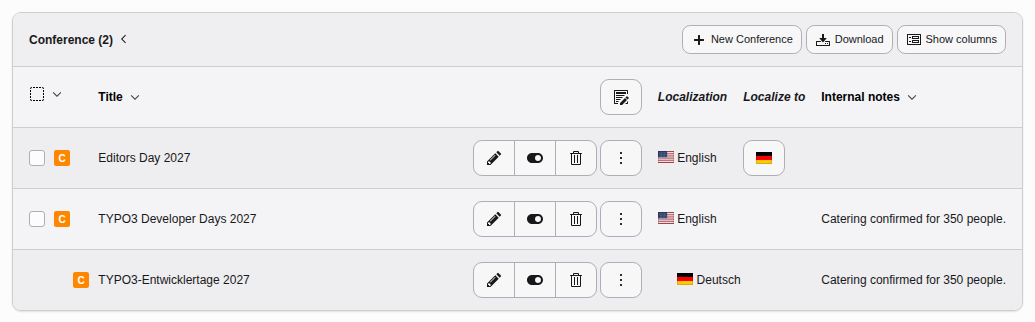
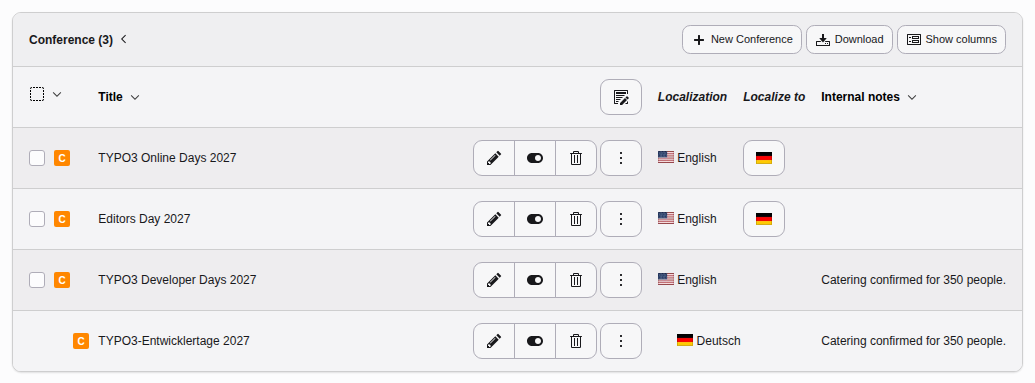
[TASK] Show a type from a related record with the conference extension
The example of a type from a related record used a table of the
styleguide extension. Its screenshot was the last automatic screenshot,
and its snippets came from the generator for the styleguide.

A partnership of the conference extension now takes its type from the
format of the partner conference. An online partner conference shares
its live stream instead of a discount. A third conference, which is
online, shows both types side by side in the screenshot.

Releases: main, 14.3
Assisted-by: Claude Opus 5.5 <noreply@anthropic.com>

diff --git a/Build/Screenshots/create-records.php b/Build/Screenshots/create-records.php
@@ -211,6 +211,7 @@ $data['tx_myextension_hotel'] = [
 ];
 $data['tx_myextension_partnership'] = [
     'NEWpartnership' => ['pid' => $pid, 'partner' => 'NEWconfeditors', 'discount' => 20],
+    'NEWpartnershiponline' => ['pid' => $pid, 'partner' => 'NEWconfonline', 'shared_livestream' => 1],
 ];
 $data['tx_myextension_comment'] = [
     'NEWcomment' => [
@@ -243,7 +244,7 @@ $data['tx_myextension_conference'] = [
         'comments' => 'NEWcomment', 'logo' => 'NEWimglogo',
         'registrations' => 'NEWregchris,NEWregsam', 'waiting_list' => 'NEWregrobin',
         'hotels' => 'NEWhotelfair,NEWhotelriver', 'content_elements' => 'NEWgettingthere',
-        'partners' => 'NEWpartnership',
+        'partners' => 'NEWpartnership,NEWpartnershiponline',
     ],
     'NEWconfeditors' => [
         'pid' => $pid, 'title' => 'Editors Day 2027',
@@ -251,6 +252,12 @@ $data['tx_myextension_conference'] = [
         'event_format' => 'onsite',
         'seats' => 120, 'contact_email' => 'editors@example.org', 'color' => '#2f99a4',
         'speakers' => 'NEWspada',
+    ],
+    'NEWconfonline' => [
+        'pid' => $pid, 'title' => 'TYPO3 Online Days 2027',
+        'conference_date' => strtotime('2027-11-17'), 'published' => 0,
+        'event_format' => 'online', 'stream_url' => 'https://example.org/online',
+        'contact_email' => 'online@example.org', 'color' => '#6c4ef5',
     ],
 ];
 $data['sys_file_reference'] = [

diff --git a/Documentation/CodeSnippets/my_extension/Configuration/TCA/Overrides/910-tx_myextension_partnership-type.php b/Documentation/CodeSnippets/my_extension/Configuration/TCA/Overrides/910-tx_myextension_partnership-type.php
@@ -1,0 +1,29 @@
+<?php
+
+use TYPO3\CMS\Core\Utility\ExtensionManagementUtility;
+
+defined('TYPO3') or die();
+
+// The type of a partnership is the format of the partner conference:
+// the field "partner" points to the conference, and its field
+// "event_format" holds the type
+$GLOBALS['TCA']['tx_myextension_partnership']['ctrl']['type'] = 'partner:event_format';
+
+// Another partner conference can have another format
+$GLOBALS['TCA']['tx_myextension_partnership']['columns']['partner']['onChange'] = 'reload';
+
+ExtensionManagementUtility::addTCAcolumns('tx_myextension_partnership', [
+  'shared_livestream' => [
+    'label' => 'my_extension.db:partnership.shared_livestream',
+    'config' => [
+      'type' => 'check',
+      'renderType' => 'checkboxToggle',
+    ],
+  ],
+]);
+
+// An online partner conference shares its live stream instead of a
+// discount. On-site and hybrid partner conferences fall back to type 0.
+$GLOBALS['TCA']['tx_myextension_partnership']['types']['online'] = [
+  'showitem' => 'conference, partner, shared_livestream',
+];

diff --git a/Documentation/codesnippets.php b/Documentation/codesnippets.php
@@ -17,17 +17,4 @@ return [
     'targetFileName' => 'CodeSnippets/TtContentCtrl.rst.txt',
   ],
 
-  [
-    'action' => 'createPhpArrayCodeSnippet',
-    'sourceFile' => 'EXT:styleguide/Configuration/TCA/tx_styleguide_typeforeign.php',
-    'fields' => ['columns/foreign_table'],
-    'targetFileName' => 'CodeSnippets/TypeForeignForeignTable.rst.txt',
-  ],
-  [
-    'action' => 'createPhpArrayCodeSnippet',
-    'sourceFile' => 'EXT:styleguide/Configuration/TCA/tx_styleguide_typeforeign.php',
-    'fields' => ['ctrl'],
-    'targetFileName' => 'CodeSnippets/TypeForeignTableCtrl.rst.txt',
-  ],
-
 ];
